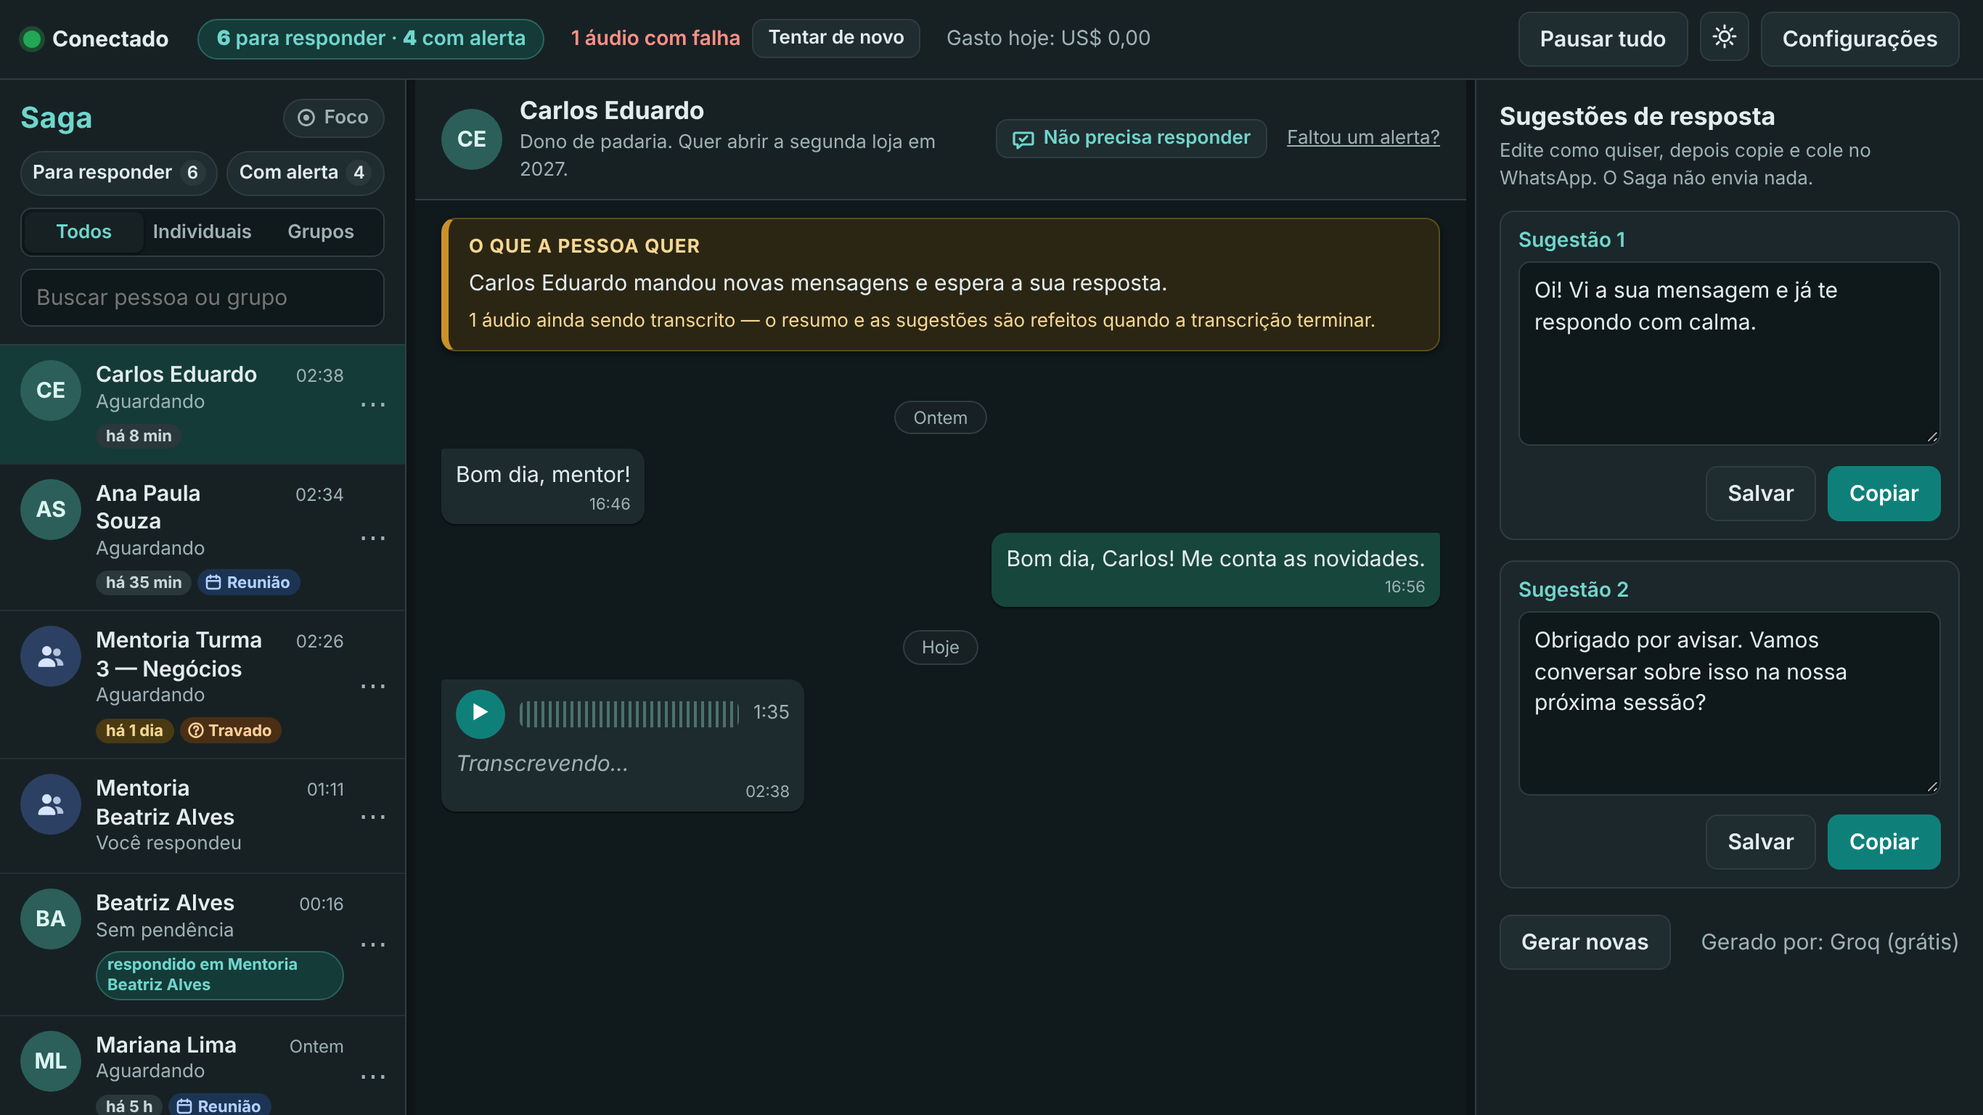
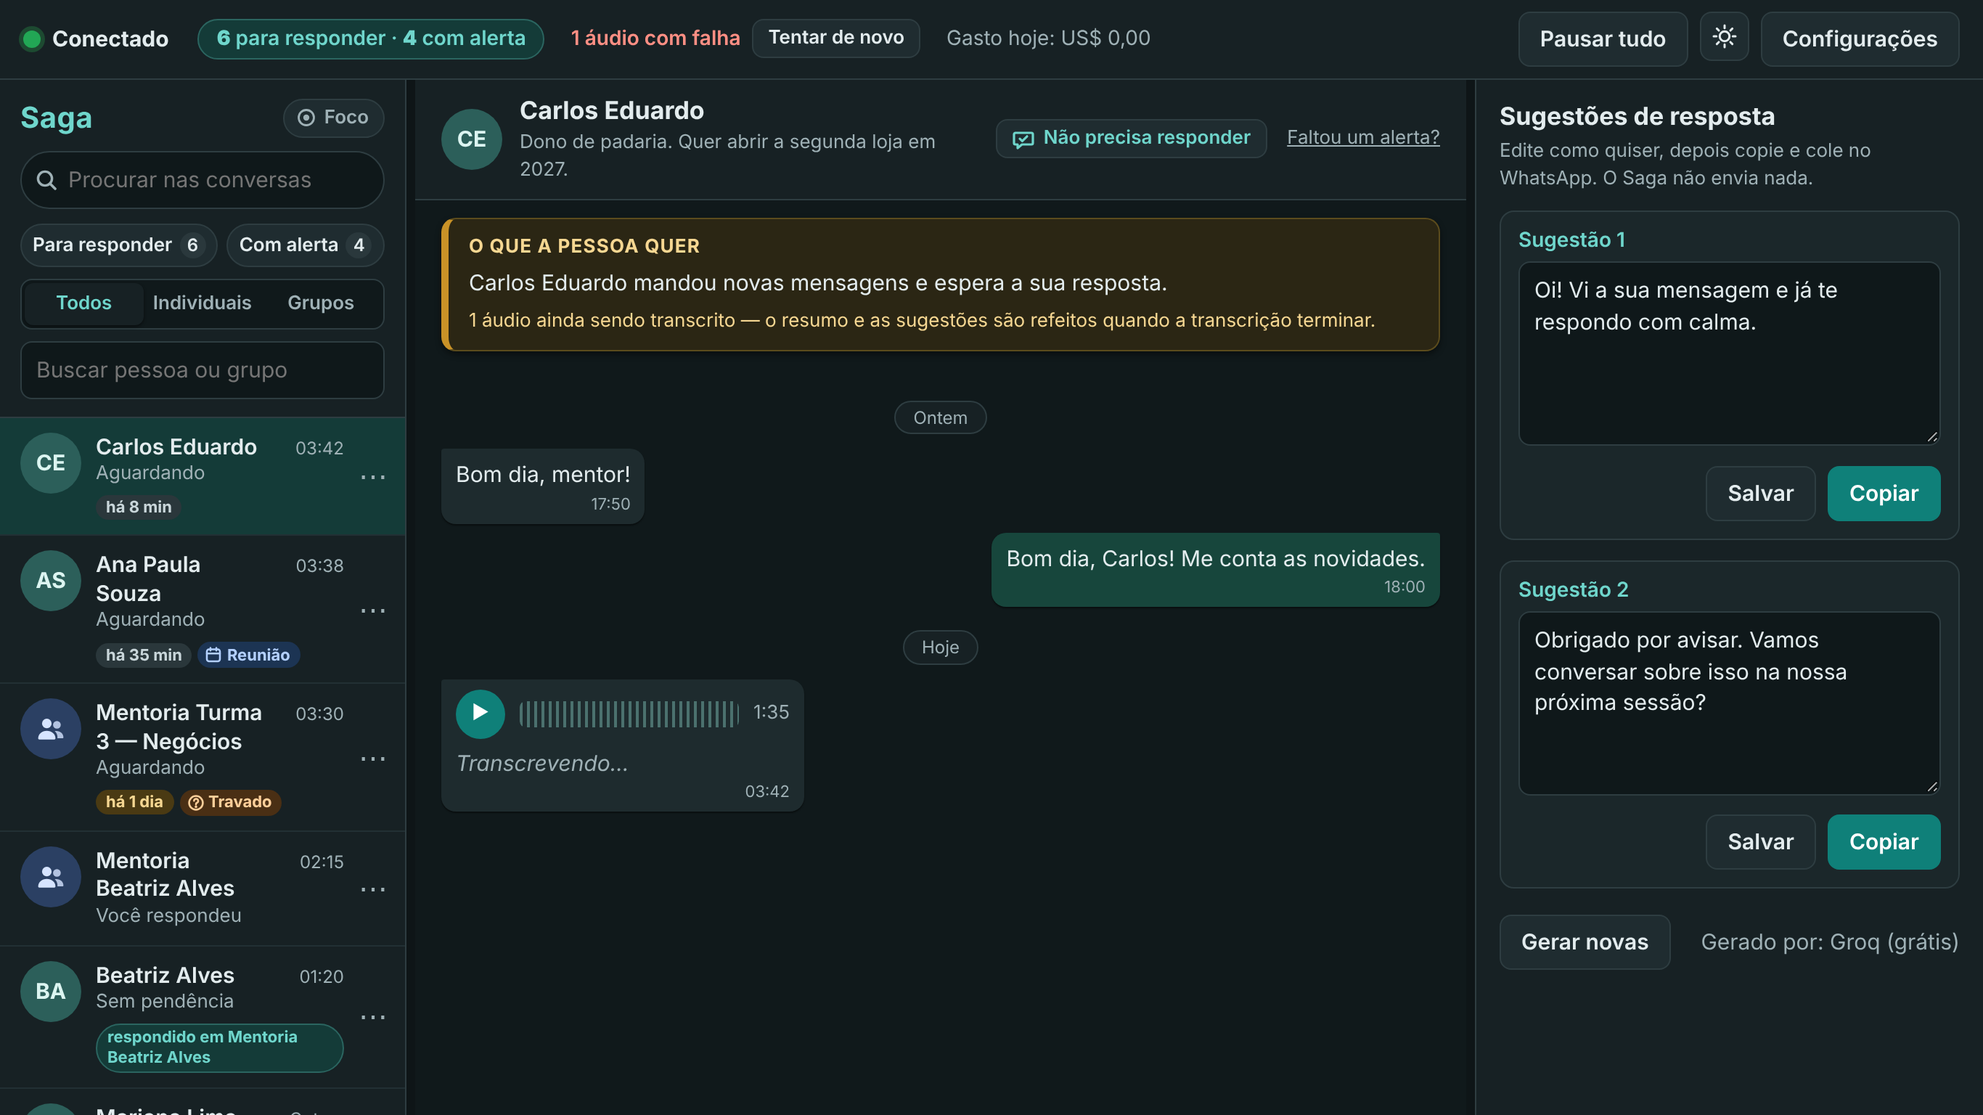
chore: v0.3.1 — spec, guia e imagens (Foco, busca, cópia de segurança)
Spec e guia com Foco mais forte, janela maximizada, sugestões só quando a
conversa precisa, busca geral e cópia de segurança; imagens do guia refeitas
(busca e cópia novas). Ajustes de tela vistos nas capturas: caixa de busca mais
curta, ir até a mensagem não volta para o fim da conversa, campo de senha da
cópia automática sem quebrar. Versão 0.3.1.

Claude-Session: https://claude.ai/code/session_01Mkn95kvNhg8Mu9zouyonaq

Changed region(s): [[0.0, 0.125, 0.2178, 1.0]]

diff --git a/src/renderer/src/components/Conversation.tsx b/src/renderer/src/components/Conversation.tsx
@@ -72,13 +72,23 @@ export function Conversation({ contact, analysis, alerts = [], onDismissAlert, o
   // clicar num alerta: rola até a mensagem que o motivou e destaca por alguns segundos
   useEffect(() => {
     if (!highlight) return
-    const t = setTimeout(() => setHighlight(null), HIGHLIGHT_MS)
+    const t = setTimeout(() => {
+      setHighlight(null)
+      jumping.current = false
+    }, HIGHLIGHT_MS)
     return () => clearTimeout(t)
   }, [highlight])
+  /** indo até uma mensagem: a rolagem não "gruda" no fim enquanto o destaque estiver na tela */
+  const jumping = useRef(false)
   const showMessage = (id: string) => {
-    const el = [...(threadRef.current?.querySelectorAll<HTMLElement>('[data-msg-id]') ?? [])].find((e) => e.dataset.msgId === id)
+    const find = () => [...(threadRef.current?.querySelectorAll<HTMLElement>('[data-msg-id]') ?? [])].find((e) => e.dataset.msgId === id)
     pinned.current = false
-    el?.scrollIntoView?.({ block: 'center', behavior: 'smooth' })
+    jumping.current = true
+    find()?.scrollIntoView?.({ block: 'center', behavior: 'smooth' })
+    // o resumo e os alertas podem mudar a altura logo depois: confere a posição de novo
+    setTimeout(() => {
+      if (jumping.current) find()?.scrollIntoView?.({ block: 'center' })
+    }, 450)
     setHighlight(id)
   }
 
@@ -262,6 +272,7 @@ export function Conversation({ contact, analysis, alerts = [], onDismissAlert, o
         aria-label="Mensagens"
         onScroll={(e) => {
           const el = e.currentTarget
+          if (jumping.current) return
           pinned.current = el.scrollHeight - el.scrollTop - el.clientHeight < 40
         }}
       >

diff --git a/src/renderer/src/styles.css b/src/renderer/src/styles.css
@@ -470,8 +470,9 @@ select { font: inherit; color: inherit; width: 100%; border: 1px solid var(--bor
 /* v0.3.1: busca geral (procurar em todas as conversas e transcrições) */
 .gsearch { position: relative; display: flex; align-items: center; margin-bottom: 10px; }
 .gsearch-icon { position: absolute; left: 10px; top: 50%; transform: translateY(-50%); display: inline-flex; color: var(--muted); pointer-events: none; }
-.gsearch input { width: 100%; padding: 8px 64px 8px 32px; border-radius: 99px; }
-.gsearch.is-active input { border-color: var(--accent-border); box-shadow: 0 0 0 2px var(--accent-soft); }
+.gsearch input { width: 100%; padding: 8px 12px 8px 32px; border-radius: 99px; }
+.gsearch.has-clear input { padding-right: 60px; }
+.gsearch.is-active input { border-color: var(--accent); }
 .gsearch-clear { position: absolute; right: 12px; font-size: 13px; }
 .gs-results { flex: 1; min-height: 0; display: flex; flex-direction: column; }
 .gs-filters { padding: 10px 14px; border-bottom: 1px solid var(--border); display: flex; flex-direction: column; gap: 6px; }
@@ -530,3 +531,5 @@ select { font: inherit; color: inherit; width: 100%; border: 1px solid var(--bor
 .backup-folder code { font-size: 12px; overflow-wrap: anywhere; }
 .backup-auto-pw .inline-field { gap: 8px; max-width: 460px; }
 .backup-section > .ok-text, .backup-section > .field-error { min-height: 20px; margin-top: 8px; }
+.backup-auto-pw .inline-field > .btn, .backup-auto-pw .inline-field > .link-btn { flex: none; white-space: nowrap; }
+.backup-auto-pw .inline-field > input { flex: 1; min-width: 0; }

diff --git a/src/renderer/src/components/GlobalSearch.tsx b/src/renderer/src/components/GlobalSearch.tsx
@@ -44,7 +44,7 @@ export const SearchBox = forwardRef<HTMLInputElement, BoxProps>(function SearchB
   }
   return (
     <form
-      className={`gsearch${active ? ' is-active' : ''}`}
+      className={`gsearch${active ? ' is-active' : ''}${value || active ? ' has-clear' : ''}`}
       role="search"
       onSubmit={(e) => {
         e.preventDefault()
@@ -65,8 +65,8 @@ export const SearchBox = forwardRef<HTMLInputElement, BoxProps>(function SearchB
         autoComplete="off"
         spellCheck={false}
         maxLength={200}
-        placeholder="Procurar nas mensagens (ex.: quem falou de preço?)"
-        title="Procura em todas as conversas e transcrições dos áudios (Ctrl+F ou Ctrl+K)"
+        placeholder="Procurar nas conversas"
+        title="Procura em todas as conversas e transcrições dos áudios. Ex.: quem falou sobre preço? (Ctrl+F ou Ctrl+K)"
         value={value}
         onChange={(e) => change(e.target.value)}
         onKeyDown={(e) => {

diff --git a/src/renderer/src/dev/fakeSaga.ts b/src/renderer/src/dev/fakeSaga.ts
@@ -611,7 +611,7 @@ export function createFakeSaga(opts: FakeOptions = {}): FakeControl {
       const list = names.length > 1 ? `${names.slice(0, -1).join(', ')} e ${names[names.length - 1]}` : names[0]
       return {
         ok: true,
-        answer: `O assunto apareceu em ${list}. ${refs.length > 1 ? 'Nas duas primeiras conversas' : 'Lá'} pedem ajuda para definir o preço sem perder clientes; vale levar o tema para a próxima aula.`,
+        answer: `O assunto apareceu em ${list}. Em resumo: pedem ajuda para definir o preço do serviço sem perder clientes — vale levar o tema para a próxima aula.`,
         refs,
         used: Math.min(r.ranked.length, SEARCH_LIMITS.summarySnippets)
       }

diff --git a/docs/superpowers/specs/2026-11-23-whatsapp-mentor-analyzer-design.md b/docs/superpowers/specs/2026-11-23-whatsapp-mentor-analyzer-design.md
@@ -299,7 +299,8 @@ Cada mentorado costuma ter o próprio grupo, onde o mentor responde.
 
 - Botão "Foco" (ícone de alvo, `aria-pressed`) no alto da lista de conversas. Ligado, as conversas que não pedem a
   resposta do mentor (mentor falou por último, "Não precisa responder" do Saga ou do mentor, "Respondido no grupo",
-  escondidas) ficam apagadas (opacidade ~0,45, selos em cinza), mas na lista e clicáveis; as que pedem resposta ficam
+  escondidas) ficam apagadas (v0.3.1: opacidade 0,28 e sem cor, selos inclusive; 0,7 ao passar o mouse ou com o
+  teclado), mas na lista e clicáveis; as que pedem resposta ficam
   normais. Vale com todos os filtros e nos dois temas. Lembrado por computador (`localStorage`, com try/catch).
 
 ### Sem conversas escondidas (v0.3.0, a pedido do mentor)
@@ -310,6 +311,72 @@ Cada mentorado costuma ter o próprio grupo, onde o mentor responde.
   `settings_kv['migration.unhidden_jids']` e, ao iniciar, o serviço devolve à fila (`requeue`, no ritmo normal) os áudios
   deles sem transcrição (baixar, ou só transcrever se o arquivo já existe), apaga a lista e registra só contagens
   (`unhidden_requeue`). A coluna e os caminhos do núcleo que olham `hidden` continuam, inofensivos (sempre 0).
+
+### Versão 0.3.1 (a pedido do mentor)
+
+**Foco mais forte.** "A diferença não ficou tão grande": as conversas que não pedem resposta ficam com opacidade 0,28 e
+`grayscale(100%)` (avatar, texto e selos), um valor só para os dois temas (tokens `--dim-opacity` e
+`--dim-hover-opacity`); ao passar o mouse, com foco do teclado ou selecionada, sobem para 0,7.
+
+**Janela maximizada.** A janela principal abre maximizada por padrão (`maximize()` antes de `show()`, sem piscar). Se o
+mentor tirar do maximizado, `settings_kv['window.state']` guarda `{ maximized, bounds }` (o tamanho normal, por
+`getNormalBounds`, salvo ao maximizar/restaurar, ao mover/redimensionar com pausa de 400 ms e ao fechar). Ao abrir, o
+retângulo é encaixado na tela que existe agora (a de maior área em comum; precisa mostrar ao menos 120×80; senão abre
+centralizada). Abrir de novo (segunda instância, bandeja) só mostra a janela, que continua como estava.
+
+**Sugestões só quando a conversa precisa.** "Conversas que não precisam de resposta não precisam gerar modelos de
+resposta. Somente se eu solicitar." Ao abrir uma conversa que não está em "Para responder" (o mentor falou por último,
+"Não precisa responder" do Saga ou do mentor, respondido no grupo), a interface chama `getAnalysis(jid, { onlyIfNeeded:
+true })`: o serviço não chama a IA (resumo e sugestões são o mesmo pedido), devolve a análise guardada se ela ainda vale
+para a última mensagem, senão `not_needed`. A coluna da direita mostra "Esta conversa não precisa de resposta agora." e
+o botão "Gerar sugestões mesmo assim" (caminho normal, com a base de conhecimento); o resumo diz que não foi gerado. A
+atualização silenciosa usa a mesma opção. Chegou mensagem do contato e a conversa voltou a precisar: gera sozinho como
+antes.
+
+**Busca geral.** "Procurar em todas as conversas e transcrições (ex.: 'quem falou sobre precificação?')".
+- Índice: migração v13 cria `messages_fts` (FTS5, `unicode61 remove_diacritics 2`; colunas `body` = texto + transcrição
+  e `sender` = pushName de quem mandou), `rowid = messages.rowid`, gatilhos de inserção, mudança de texto/transcrição/
+  remetente e exclusão, e preenche com o que já existe. Índice `messages(ts)` para o filtro de período.
+- Pergunta natural: sem acento e minúsculas; saem perguntas, verbos de "falar", artigos e preposições ("quem", "falou",
+  "sobre", "qual", "quando", "alguém", "me", "de"…); ficam palavras com 3 letras ou mais (ou números); radical leve
+  (tira terminações comuns: "precificação" → `"precifica"*`) e busca por prefixo; aspas = frase exata. Primeiro todas as
+  palavras (AND); sem resultado, qualquer uma (OR, com aviso). Só palavras vazias: pede o assunto.
+- Filtros: Todos/Individuais/Grupos, período (tudo, 30 dias, 7 dias), "Só áudios" e uma conversa. Até 300 mensagens por
+  busca (bm25, o texto pesa mais que o nome), agrupadas por conversa (a mais relevante primeiro; dentro, as mais novas;
+  até 20 por conversa, com o total).
+- Interface: caixa "Procurar nas conversas" com lupa no alto da coluna da esquerda (Ctrl+F / Ctrl+K; Enter procura já,
+  ou depois de 450 ms parado; Esc ou "Limpar" volta à lista). Os resultados ocupam o lugar da lista: nome da conversa e
+  total; cada mensagem com quem mandou (grupos; "Você" nas do mentor), data/hora, "áudio" e o trecho com as palavras em
+  `<mark>`, montado por intervalos calculados no núcleo (nunca HTML). Clicar abre a conversa, rola até a mensagem e a
+  destaca (o mesmo mecanismo do "Ver mensagem" dos alertas). "Nenhum resultado" traz dicas.
+- "Resumir com IA" (só quando o mentor clica): no máximo os 30 trechos mais relevantes, cada um com até 240 caracteres,
+  vão para a IA das sugestões (Groq ou Claude, com esquema JSON próprio `{resposta, conversas}`), dentro do teto diário
+  e do limitador; resposta curta em pt-BR com as conversas citadas como links. Os trechos são marcados como dados, não
+  instruções.
+- API: `searchMessages(query, filters)` e `summarizeSearch(query, filters)`, validadas (texto até 200 caracteres,
+  filtros conhecidos) e só da interface do app. Registro: só contagens e o tempo (`search`, `search_summary`).
+- Desempenho: teste com 100 mil mensagens sintéticas, cada busca abaixo de 200 ms (pula em CI).
+
+**Cópia de segurança.** "Exportar as respostas aprendidas, para não perder se trocar de computador."
+- Arquivo `Saga-copia-AAAA-MM-DD.sagabackup`: um .zip com `manifest.json` (`format: saga-backup`, `version: 1`, data,
+  versão do app, cifrado ou não) e `data.json` (com SHA-256 no manifesto) ou `data.enc`. Conteúdo: respostas aprovadas
+  (com texto enviado, não escolhidas e provedor), nomes personalizados e notas, avaliações de alertas e do "Para
+  responder" (sem o vínculo com alertas deste computador), a base de conhecimento (pacotes, arquivos com papel e "Usar",
+  trechos; o índice é refeito), configurações sem segredo (provedor, transcrição, teto, modelos, tema) e as preferências
+  da lista (filtros e Foco). Nunca: chaves (cifradas pela máquina; digitar de novo), a sessão do WhatsApp (vincular de
+  novo), a mídia nem a chave de download dela. Mensagens e transcrições só com "Incluir mensagens e transcrições".
+- "Proteger com senha" (recomendado; 6 a 200 caracteres): AES-256-GCM com chave por scrypt (N=2¹⁵, r=8, p=1), sal e
+  IV aleatórios e o cabeçalho do manifesto como dado autenticado; as contagens vão dentro da parte cifrada. Senha
+  errada → "Senha incorreta"; arquivo alterado, incompleto, de outro tipo ou de versão mais nova → mensagens claras.
+- Restaurar: escolher o arquivo (diálogo do sistema; o caminho nunca vem da interface) → senha → prévia com as contagens
+  → "Juntar com o que já existe" (sem repetir: resposta por conversa + texto + data; avaliação de alerta por conversa,
+  tipo, mensagem, veredito e data; "Para responder" por conversa + mensagem; base por pacote + caminho; nomes e notas e
+  configurações só onde ainda não há) ou "Substituir" (com confirmação; apaga respostas, avaliações, nomes/notas e a
+  base, nunca mensagens). Uma transação; os índices de busca (respostas, base, mensagens) são refeitos no fim.
+- Cópia automática semanal: liga/desliga, pasta escolhida no diálogo (dica: uma pasta do Google Drive ou OneDrive deixa
+  a cópia na nuvem), senha opcional guardada cifrada pelo Windows. O processo principal confere a cada 30 min e só grava
+  com o computador parado há 2 min ou a janela escondida, no máximo uma vez por semana; guarda as 5 mais novas. "Última
+  cópia" e o erro da última tentativa aparecem na tela; o registro só leva contagens e tamanhos.
 
 ## Não-objetivos (v1)
 
@@ -521,6 +588,8 @@ trabalhar sempre em ritmo lento e cobrir tudo o que acontece no dia a dia
 - `analyses` (jid, ultima_msg_id, resumo, sugestoes_json, criado_em; `sources_json`, o "Baseado em" — v0.3.0)
 - `kb_packages`, `kb_files` (papel, papel automático e motivo, usar), `kb_chunks` (trilha, texto, sensível) e o índice
   FTS5 `kb_fts` — base de conhecimento, v0.3.0
+- `messages_fts` (FTS5 de texto + transcrição + remetente, mantido por gatilhos) — busca geral, v0.3.1
+- `settings_kv`: `window.state` (janela) e `backup.*` (última cópia, cópia automática) — v0.3.1
 - `approved_replies` (como acima)
 - `jobs` (fila única: tipo, chave única, status, tentativas, próxima_execução)
 - `rate_state` e `events` (histórico de ações e de desconexões, para o painel)

diff --git a/docs/guia-instalacao.md b/docs/guia-instalacao.md
@@ -145,13 +145,48 @@ Nas sugestões, aparece **Baseado em:** com o arquivo e a seção usados (só os
 
 ### Foco (versão 0.3.0)
 
-O botão **Foco**, no alto da lista de conversas, apaga as conversas que **não precisam** da sua resposta (você falou por último, o Saga ou você marcou "Não precisa responder", ou foi respondido no grupo). Elas continuam na lista e dá para abrir normalmente; as que esperam a sua resposta ficam em destaque. Funciona junto com **Para responder**, **Com alerta**, **Individuais/Grupos** e a busca, nos dois temas. Clique de novo para desligar; o Saga lembra a escolha neste computador.
+O botão **Foco**, no alto da lista de conversas, apaga bem (desde a versão 0.3.1, quase some e fica sem cor) as conversas que **não precisam** da sua resposta (você falou por último, o Saga ou você marcou "Não precisa responder", ou foi respondido no grupo). Elas continuam na lista e dá para abrir normalmente; as que esperam a sua resposta ficam em destaque. Funciona junto com **Para responder**, **Com alerta**, **Individuais/Grupos** e a busca, nos dois temas. Clique de novo para desligar; o Saga lembra a escolha neste computador.
 
 ![Foco ligado](img/foco.png)
 
 ### Sem conversas escondidas (versão 0.3.0)
 
 Como o telefone do Saga é só profissional, a opção **Mostrar escondidos** e o **Esconder/Mostrar** do menu ⋯ saíram. Se você tinha escondido alguma conversa numa versão anterior, ela volta a aparecer, e os áudios dela que ficaram sem baixar entram na fila aos poucos, no ritmo normal.
+
+### Janela maximizada (versão 0.3.1)
+
+O Saga abre com a janela **maximizada**. Se você tirar do maximizado (botão do meio, no canto de cima), ele lembra o tamanho e a posição e abre do mesmo jeito da próxima vez.
+
+### Sugestões só quando a conversa precisa (versão 0.3.1)
+
+Ao abrir uma conversa que **não precisa** da sua resposta (você falou por último, marcou "Não precisa responder" ou respondeu no grupo), o Saga não escreve resumo nem sugestões sozinho, para não gastar à toa. A coluna da direita mostra **Esta conversa não precisa de resposta agora.** Se quiser mesmo assim, clique em **Gerar sugestões mesmo assim**. Quando a pessoa mandar mensagem nova, as sugestões voltam a aparecer sozinhas.
+
+### Procurar em todas as conversas (versão 0.3.1)
+
+Use a caixa **Procurar nas conversas** (com a lupa), no alto da lista. Dá para escrever uma pergunta do jeito que você falaria, por exemplo **quem falou sobre preço?** — o Saga ignora palavras como "quem", "falou" e "sobre" e procura o assunto em todas as mensagens e nas **transcrições dos áudios**. Atalho: **Ctrl+F** (ou **Ctrl+K**).
+
+- Os resultados aparecem no lugar da lista, por conversa, com quem mandou (nos grupos), a data e o trecho com as palavras em destaque.
+- Clique num resultado para abrir a conversa já na mensagem, destacada.
+- Filtros: **Todos / Individuais / Grupos**, período (**últimos 7 dias**, **30 dias** ou **todo o período**), **Só áudios** e uma conversa específica.
+- Para uma frase exata, use aspas: **"plano de ação"**.
+- **Resumir com IA** (opcional): manda até 30 trechos encontrados para a IA das sugestões e mostra uma resposta curta, com links para as conversas. Só acontece quando você clica e conta no teto de gasto diário.
+- **Limpar** (ou a tecla Esc) volta para a lista normal.
+
+A busca é feita no seu computador; nada sai dele, a não ser no **Resumir com IA**.
+
+![Busca: resumo da IA e a mensagem destacada](img/busca.png)
+
+### Cópia de segurança (versão 0.3.1)
+
+Para não perder o que o Saga aprendeu se trocar de computador, abra **Configurações › Cópia de segurança**.
+
+1. **Exportar:** deixe marcado **Proteger com senha (recomendado)**, digite a senha duas vezes e clique em **Exportar cópia**. Escolha onde salvar o arquivo `Saga-copia-AAAA-MM-DD.sagabackup` (um pendrive, o Google Drive, o OneDrive…). **Anote a senha**: sem ela a cópia não abre.
+   - A cópia leva as respostas aprovadas, os nomes e notas dos contatos, as avaliações (👍/👎, "Não precisa responder"), a base de conhecimento e as configurações (tema, IA, transcrição, teto, filtros).
+   - **Não** leva as chaves de acesso nem a ligação com o WhatsApp: no computador novo, digite as chaves de novo e vincule o WhatsApp pelo QR Code (as mensagens voltam sozinhas). Se quiser levar também as mensagens e transcrições, marque **Incluir mensagens e transcrições (arquivo maior)**.
+2. **Restaurar** (no computador novo): clique em **Restaurar cópia**, escolha o arquivo e digite a senha. O Saga mostra o que tem na cópia antes de mudar qualquer coisa. Escolha **Juntar com o que já existe** (o mais seguro: nada se repete e nada do que já está aqui é apagado) ou **Substituir** (troca o que está aqui pelo que está na cópia; o Saga pede confirmação).
+3. **Cópia automática:** marque **Fazer cópia automática semanal** e clique em **Escolher pasta**. Dica: escolha uma pasta do **Google Drive** ou do **OneDrive** no seu computador — assim a cópia também fica guardada na nuvem. Uma vez por semana, quando o computador estiver parado, o Saga grava uma cópia ali e guarda as 5 mais novas. Dá para pôr uma senha nas cópias automáticas também. Embaixo aparece a data da **última cópia**.
+
+![Configurações › Cópia de segurança](img/copia-de-seguranca.png)
 
 ## 5. O que significa a faixa de cima
 
